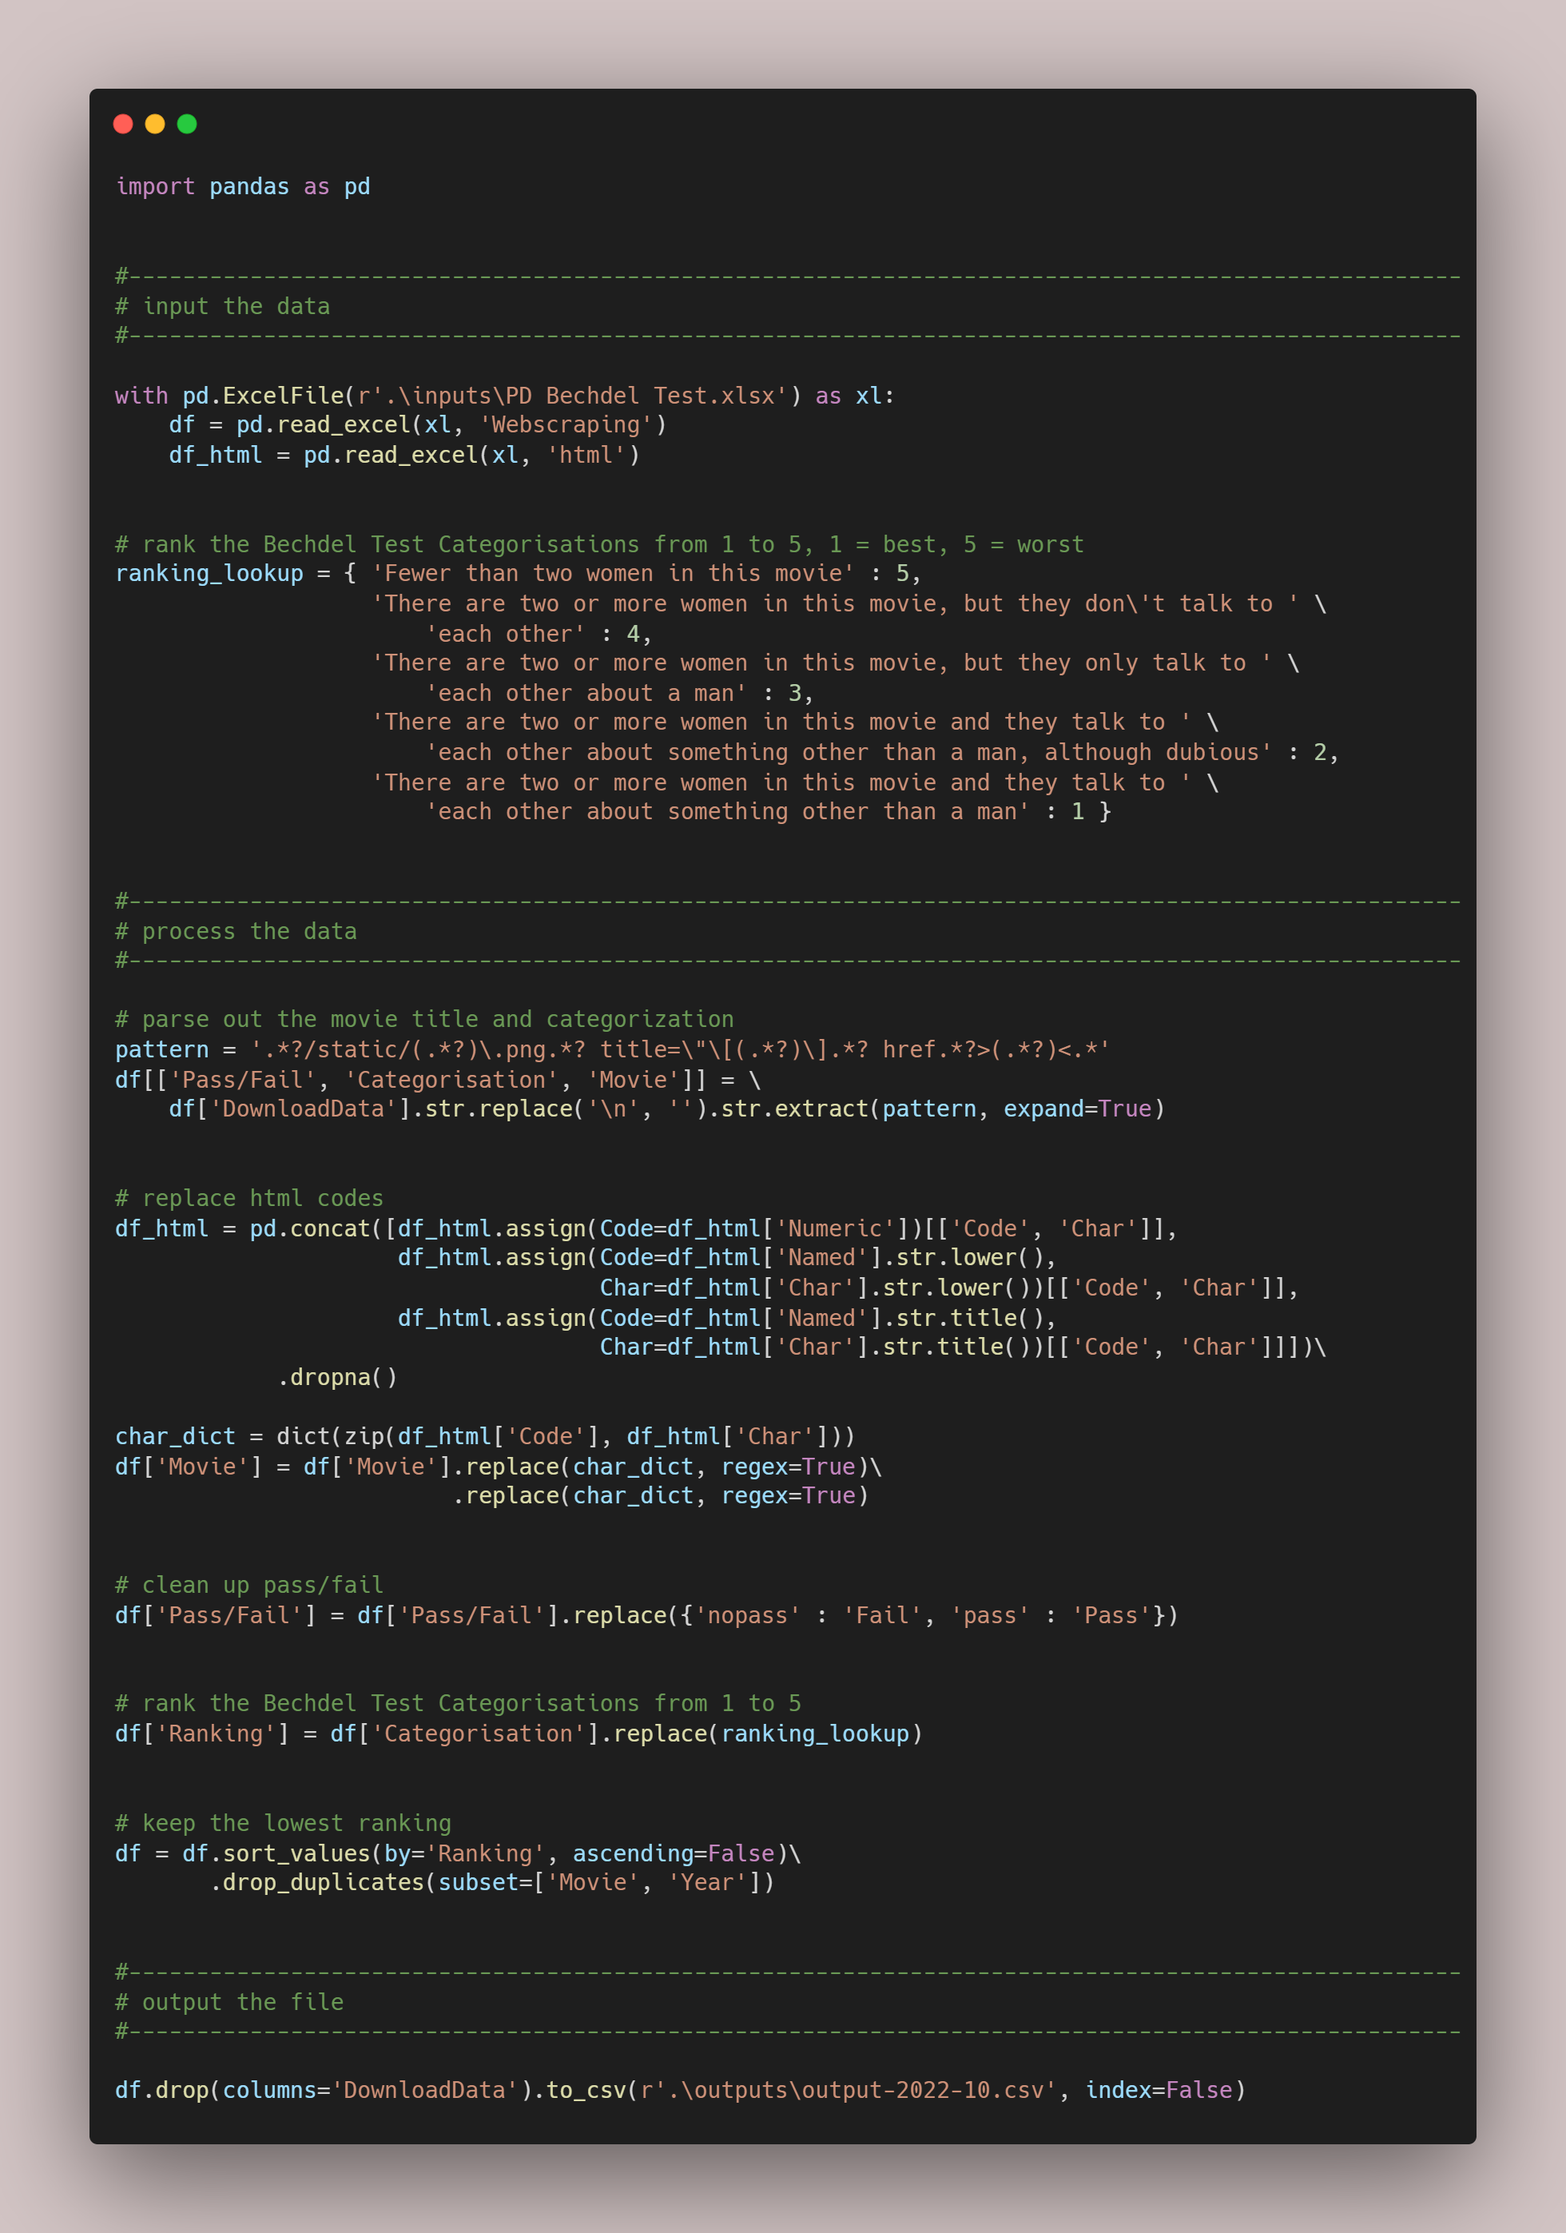
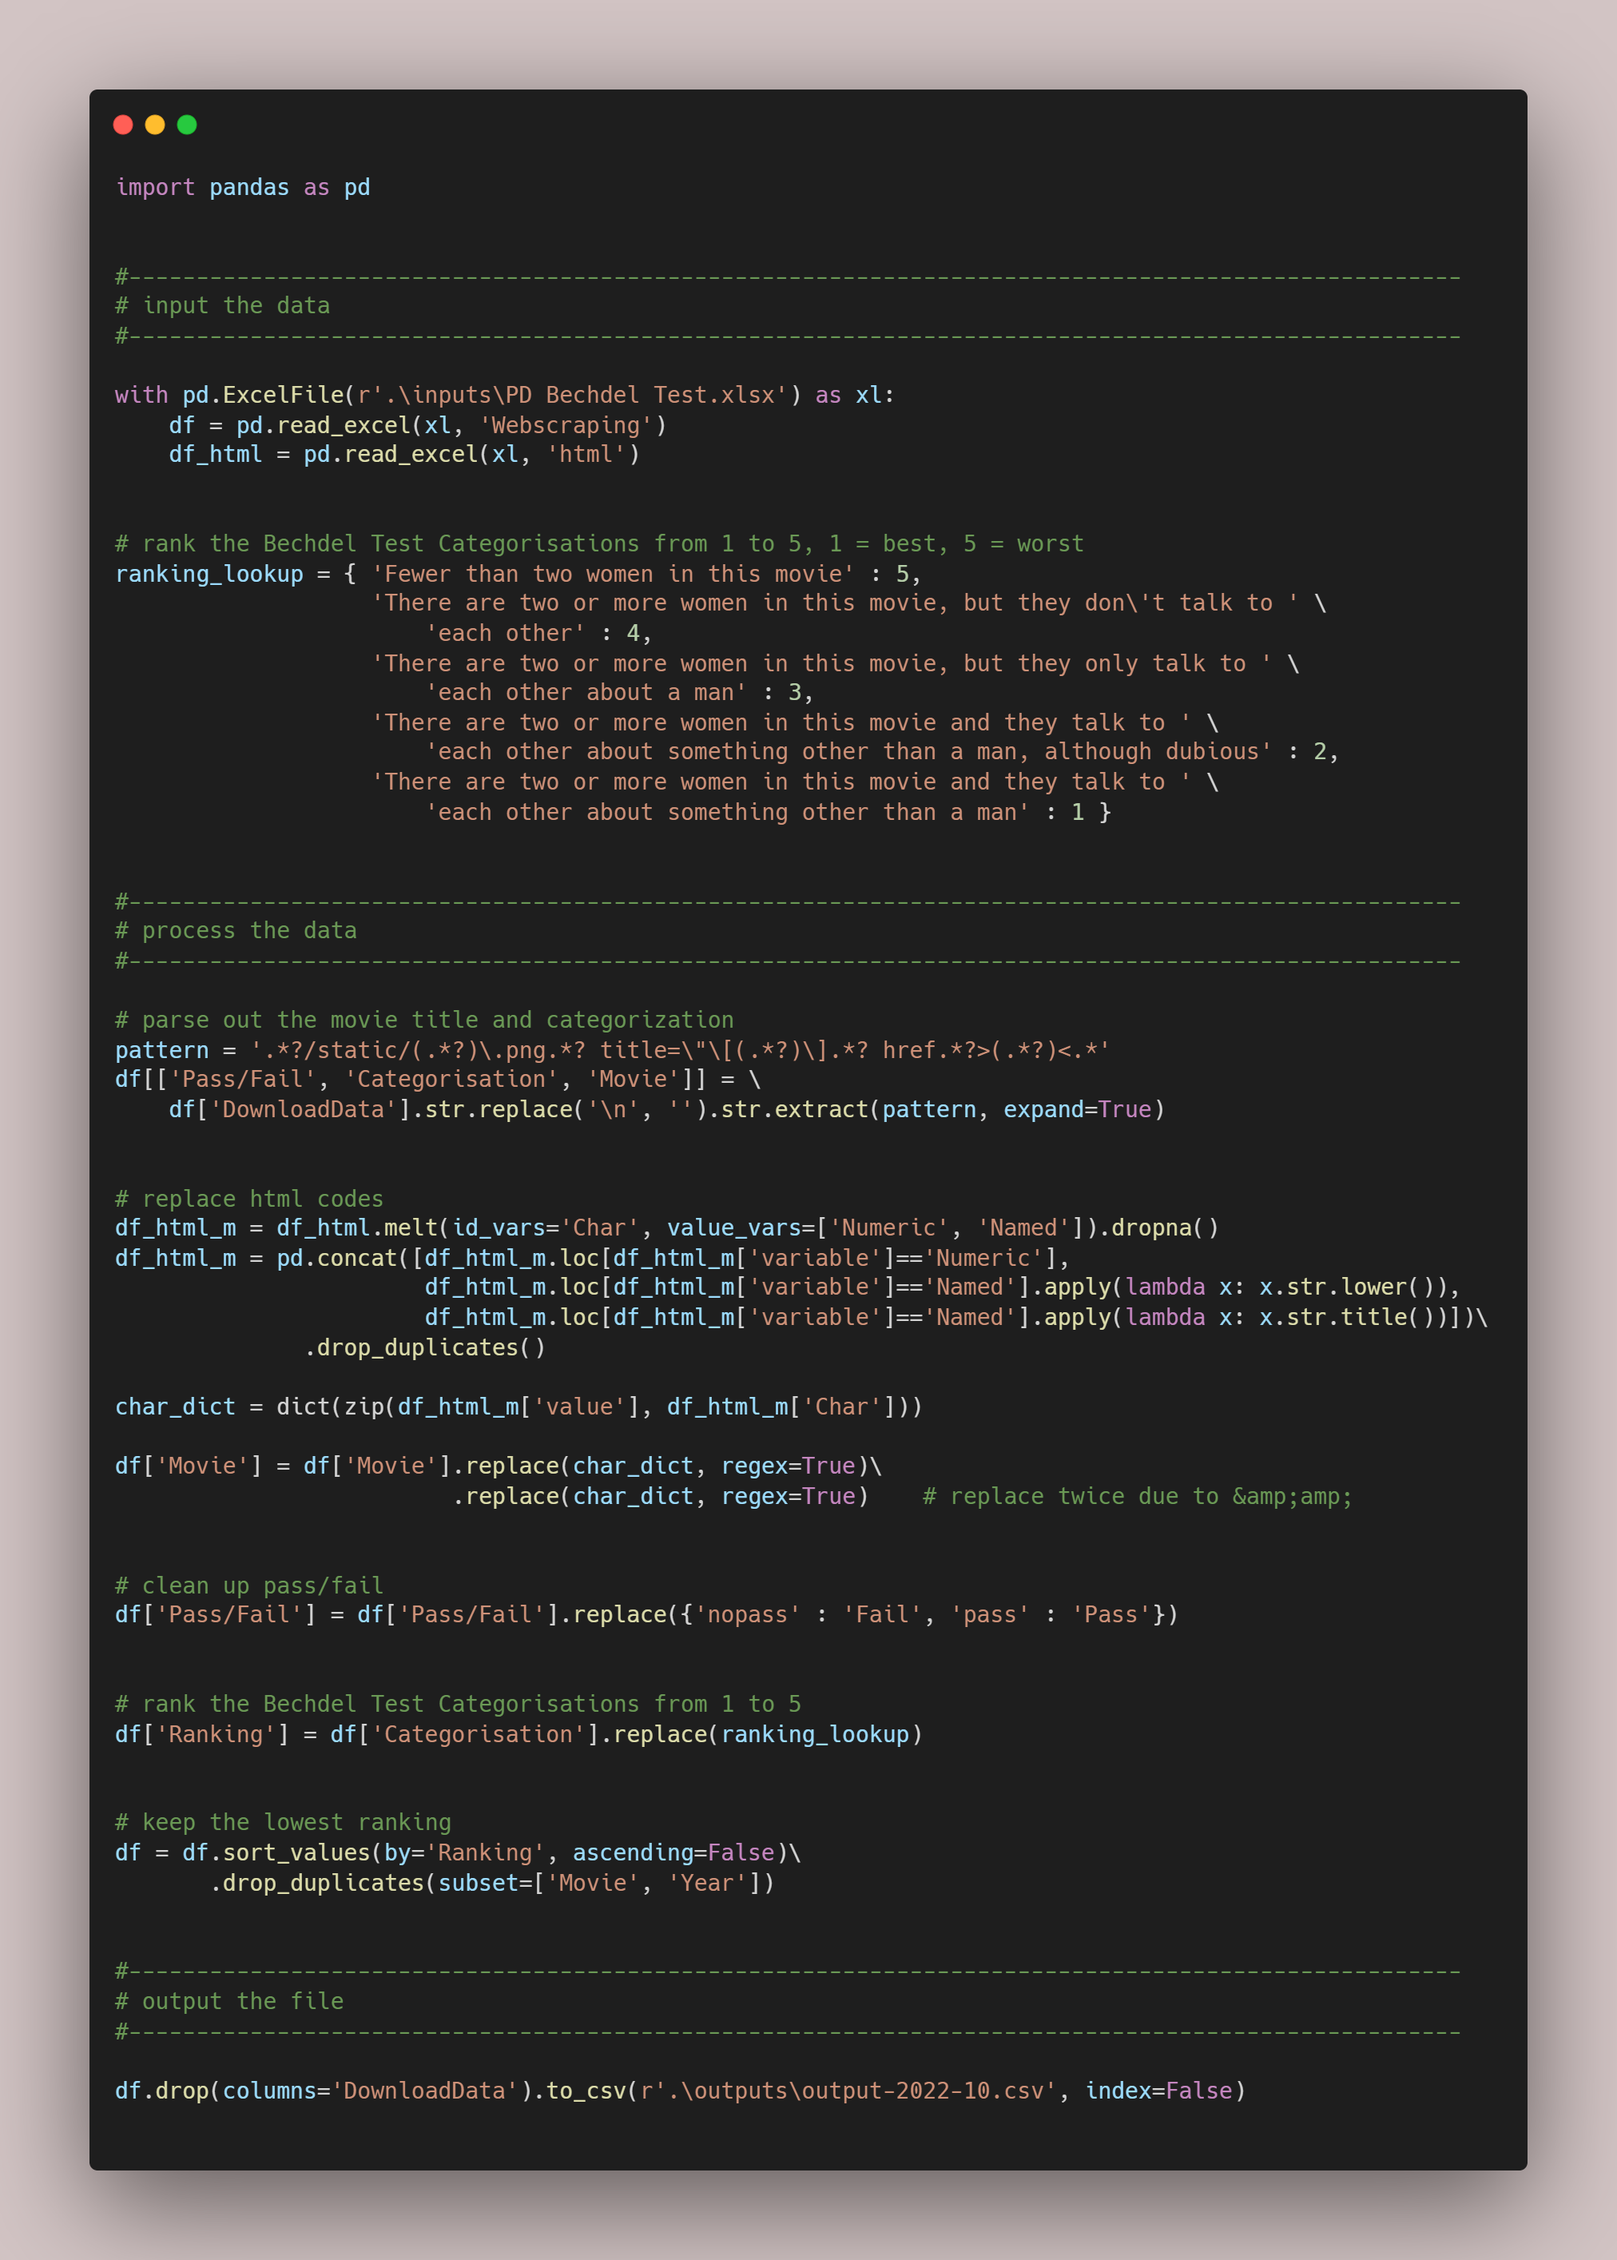
Updated 2022-10 python files (updated creation of html entity replacement dictionary)

diff --git a/2022/preppin-data-2022-10/preppin-data-2022-10.py b/2022/preppin-data-2022-10/preppin-data-2022-10.py
@@ -66,14 +66,14 @@ df[['Pass/Fail', 'Categorisation', 'Movie']] = \
 
 
 # replace html codes 
-df_html = pd.concat([df_html.assign(Code=df_html['Numeric'])[['Code', 'Char']],
-                     df_html.assign(Code=df_html['Named'].str.lower(),
-                                    Char=df_html['Char'].str.lower())[['Code', 'Char']],
-                     df_html.assign(Code=df_html['Named'].str.title(),
-                                    Char=df_html['Char'].str.title())[['Code', 'Char']]])\
-            .dropna()
+df_html_m = df_html.melt(id_vars='Char', value_vars=['Numeric', 'Named']).dropna()
+df_html_m = pd.concat([df_html_m.loc[df_html_m['variable']=='Numeric'],
+                       df_html_m.loc[df_html_m['variable']=='Named'].apply(lambda x: x.str.lower()),
+                       df_html_m.loc[df_html_m['variable']=='Named'].apply(lambda x: x.str.title())])\
+              .drop_duplicates()
             
-char_dict = dict(zip(df_html['Code'], df_html['Char']))
+char_dict = dict(zip(df_html_m['value'], df_html_m['Char']))
+
 df['Movie'] = df['Movie'].replace(char_dict, regex=True)\
                          .replace(char_dict, regex=True)    # replace twice due to &amp;amp;
             
